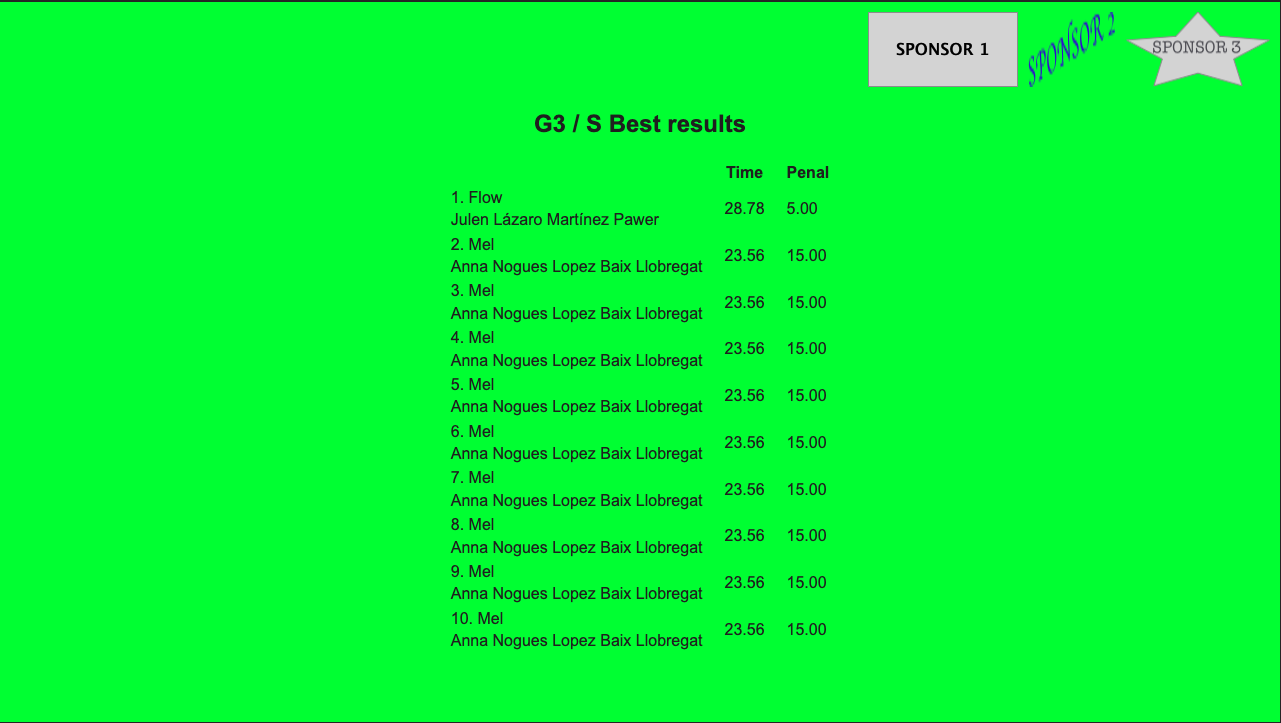
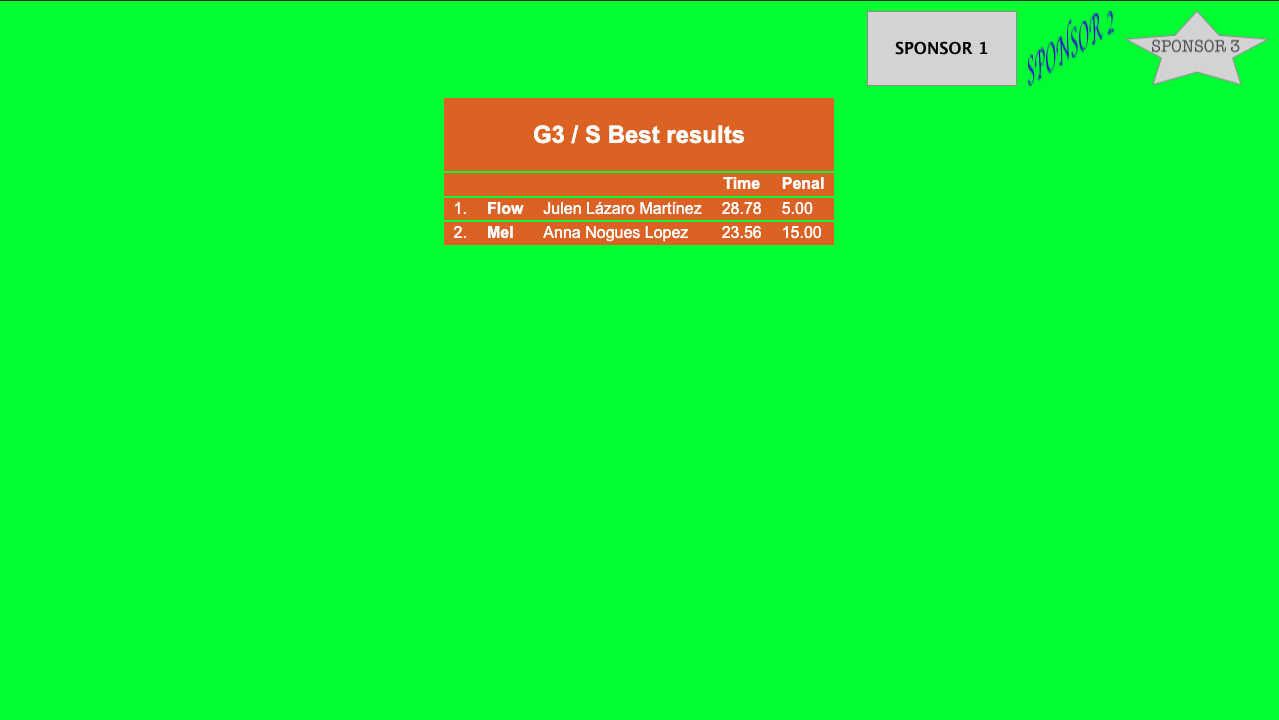
feat: add support for basic theming

diff --git a/index.html b/index.html
@@ -66,13 +66,11 @@
 
       <div class="streaming" id="streaming">
         <!-- UNCOMMENT THIS TO DISPLAY SPONSORS -->
-        <!--- 
-        <div class="streaming-sponsors sponsors">
+        <!-- <div class="streaming-sponsors sponsors">
           <img src="/img/sponsors/sponsor1.png" alt="" />
           <img src="/img/sponsors/sponsor2.png" alt="" />
           <img src="/img/sponsors/sponsor3.png" alt="" />
-        </div>
-        -->
+        </div> -->
 
         <div id="streaming-run">
           <div class="streaming-run">
@@ -102,18 +100,20 @@
           <div id="streaming-data" class="streaming-data">
             <div class="streaming-data-pos">
               <div id="streaming-run-pen" class="streaming-data-pen">
-                F:
-                <span
-                  class="streaming-data__faults"
-                  id="streaming-run-dog_faults"
-                  >0</span
-                >
-                R:
-                <span
-                  class="streaming-data__refusals"
-                  id="streaming-run-dog_refusals"
-                  >0</span
-                >
+                <div>
+                  F
+                  <span
+                    class="streaming-data__faults"
+                    id="streaming-run-dog_faults"
+                    >0</span
+                  >
+                  R
+                  <span
+                    class="streaming-data__refusals"
+                    id="streaming-run-dog_refusals"
+                    >0</span
+                  >
+                </div>
 
                 <span
                   class="streaming-data__time"
@@ -122,7 +122,7 @@
               </div>
               <span
                 class="streaming-data__eliminated"
-                style="opacity: 0; color: red"
+                style="opacity: 0"
                 id="streaming-run-dog_elim"
                 >Elim.</span
               >
@@ -161,18 +161,22 @@
           <div id="streaming-data" class="streaming-data">
             <div class="streaming-data-pos">
               <div id="streaming-run-result-pen" class="streaming-data-pen">
-                F:
-                <span
-                  class="streaming-data__faults"
-                  id="streaming-run-result-dog_faults"
-                  >0</span
-                >
-                R:
-                <span
-                  class="streaming-data__refusals"
-                  id="streaming-run-result-dog_refusals"
-                  >0</span
-                >
+                <div>
+                  <div>
+                    F
+                    <span
+                      class="streaming-data__faults"
+                      id="streaming-run-result-dog_faults"
+                      >0</span
+                    >
+                    R
+                    <span
+                      class="streaming-data__refusals"
+                      id="streaming-run-result-dog_refusals"
+                      >0</span
+                    >
+                  </div>
+                </div>
                 <span
                   class="streaming-data__time"
                   id="streaming-run-result-dog_time"
@@ -180,7 +184,7 @@
               </div>
               <span
                 class="streaming-data__eliminated"
-                style="opacity: 0; color: red"
+                style="opacity: 0"
                 id="streaming-run-result-dog_elim"
                 >Elim.</span
               >
@@ -196,14 +200,21 @@
           <img src="/img/sponsors/sponsor2.png" alt="" />
           <img src="/img/sponsors/sponsor3.png" alt="" />
         </div> -->
-        <h2 class="results__header" id="results-header">
-          G1 / M - Best results
-        </h2>
-        <table>
+
+        <table class="results_table">
           <thead>
-            <th></th>
-            <th>Time</th>
-            <th>Penal</th>
+            <tr>
+              <th colspan="5">
+                <h2 class="results__header" id="results-header"></h2>
+              </th>
+            </tr>
+            <tr>
+              <th></th>
+              <th></th>
+              <th></th>
+              <th>Time</th>
+              <th>Penal</th>
+            </tr>
           </thead>
 
           <tbody id="results-body"></tbody>

diff --git a/css/main.css b/css/main.css
@@ -1,3 +1,8 @@
+:root {
+  --main-bg-color: #e26818;
+  --main-copy-color: white;
+}
+
 /*! HTML5 Boilerplate v8.0.0 | MIT License | https://html5boilerplate.com/ */
 
 /* main.css 2.1.0 | MIT License | https://github.com/h5bp/main.css#readme */
@@ -271,7 +276,8 @@ body {
 }
 
 .wrapper {
-  background: url('/img/perroenpista.png') no-repeat center center / cover;
+  /* background: url('/img/perroenpista.png') no-repeat center center / cover; */
+  background-color: #0BFE02;
   height: 100vh;
   overflow: hidden;
 }
@@ -314,9 +320,13 @@ body {
 
 .streaming-data {
   right: 35px;
-  bottom: 105px;
+  bottom: 100px;
   position: absolute;
-  width: 140px;
+  width: 120px;
+  padding: 5px 10px;
+
+  background-color: var(--main-bg-color);
+  color: var(--main-copy-color);
 }
 
 .streaming-data-pos {
@@ -327,11 +337,21 @@ body {
   position: absolute;
   top: 0;
   left: 0;
+  display: flex;
+  justify-content: space-between;
+  width: 120px;
 }
 
-.data__eliminated {
-  color: red;
+.streaming-data__faults,
+.streaming-data__refusals,
+.streaming-data__time,
+.streaming-data__eliminated {
+  font-weight: bold;
 }
+
+/* .data__eliminated {
+  color: red;
+} */
 
 .streaming-run {
   position: absolute;
@@ -339,11 +359,30 @@ body {
   left: 220px;
   color: white;
   width: 500px;
+  min-height: 100px;
 }
 
+.streaming-run::before {
+  content: '';
+  width: 500px;
+  background-color: var(--main-bg-color);
+  opacity: 0.7;
+  position: absolute;
+  display: block;
+  height: 100%;
+
+}
+
+.streaming-run__row {
+  padding: 5px;
+  position: relative;
+  z-index: 1;
+  min-height: 22px;
+}
 .streaming-run__row--large {
   font-size: 20px;
-  line-height: 2.2em;
+  background-color: var(--main-bg-color);
+  min-height: 28px;
 }
 
 .results {
@@ -357,6 +396,16 @@ body {
   margin: auto;
 }
 
+.results_table {
+  color: var(--main-copy-color);
+  border-spacing: 0px 2px;
+}
+
+.results_table tr {
+  background-color: var(--main-bg-color);
+
+}
+
 .results th,
 .results td {
   padding: 0 10px;
@@ -364,6 +413,7 @@ body {
 
 .results__header {
   text-align: center;
+  color: var(--main-copy-color);
 }
 
 .sponsors {
@@ -375,4 +425,8 @@ body {
 
 .sponsors img {
   max-width: 150px;
+}
+
+.results-item-dog {
+  font-weight: bold;
 }

diff --git a/js/main.js b/js/main.js
@@ -20,7 +20,7 @@ const updateRunData = (name, playset, prefix = "streaming-run") => {
     playset.refusals;
 
   document.querySelector(`#${prefix}-dog_time`).innerHTML = playset.time
-    ? `T:${playset.time}`
+    ? `${playset.time}`
     : "";
 
   if (playset.disqualification === "elim") {
@@ -70,14 +70,20 @@ const showResults = (results = {}) => {
         resultHtml +
         `<tr id="result-template">
               <td>
-                <div>
-                  <span data-id="results-item-order">${index + 1}.</span>
-                  <span data-id="results-item-dog">${r.dog_family_name}</span>
-                </div>
-                <div>
-                  <span data-id="results-item-handler">${r.handler}</span>
-                  <span data-id="results-item-club">${r.club}</span>
-                </div>
+              <span data-id="results-item-order">${index + 1}.</span>
+              </td>
+              <td>
+              <span data-id="results-item-dog" class="results-item-dog">${
+                r.dog_family_name
+              }</span>
+              </td>
+              <td>
+                
+                  
+                  
+                  <span data-id="results-item-handler" class="results-item-handler">${
+                    r.handler
+                  }</span>
               </td>
               <td>${r.time}</td>
               <td>${r.total_penalization}</td>

diff --git a/README.md b/README.md
@@ -25,6 +25,10 @@ Sponsors logos can be displayed in the top right corner. The logos should be max
 
 You can place the images in `/img/sponsors` folder and update the image names/paths accordingly.
 
+## Theming
+
+The build supports two color selection - the main color (used for backgrounds) and copy color. These can be set on line 2 & 3 in [main.css](/css/main.css).
+
 ## Logic
 
 On message from server:
